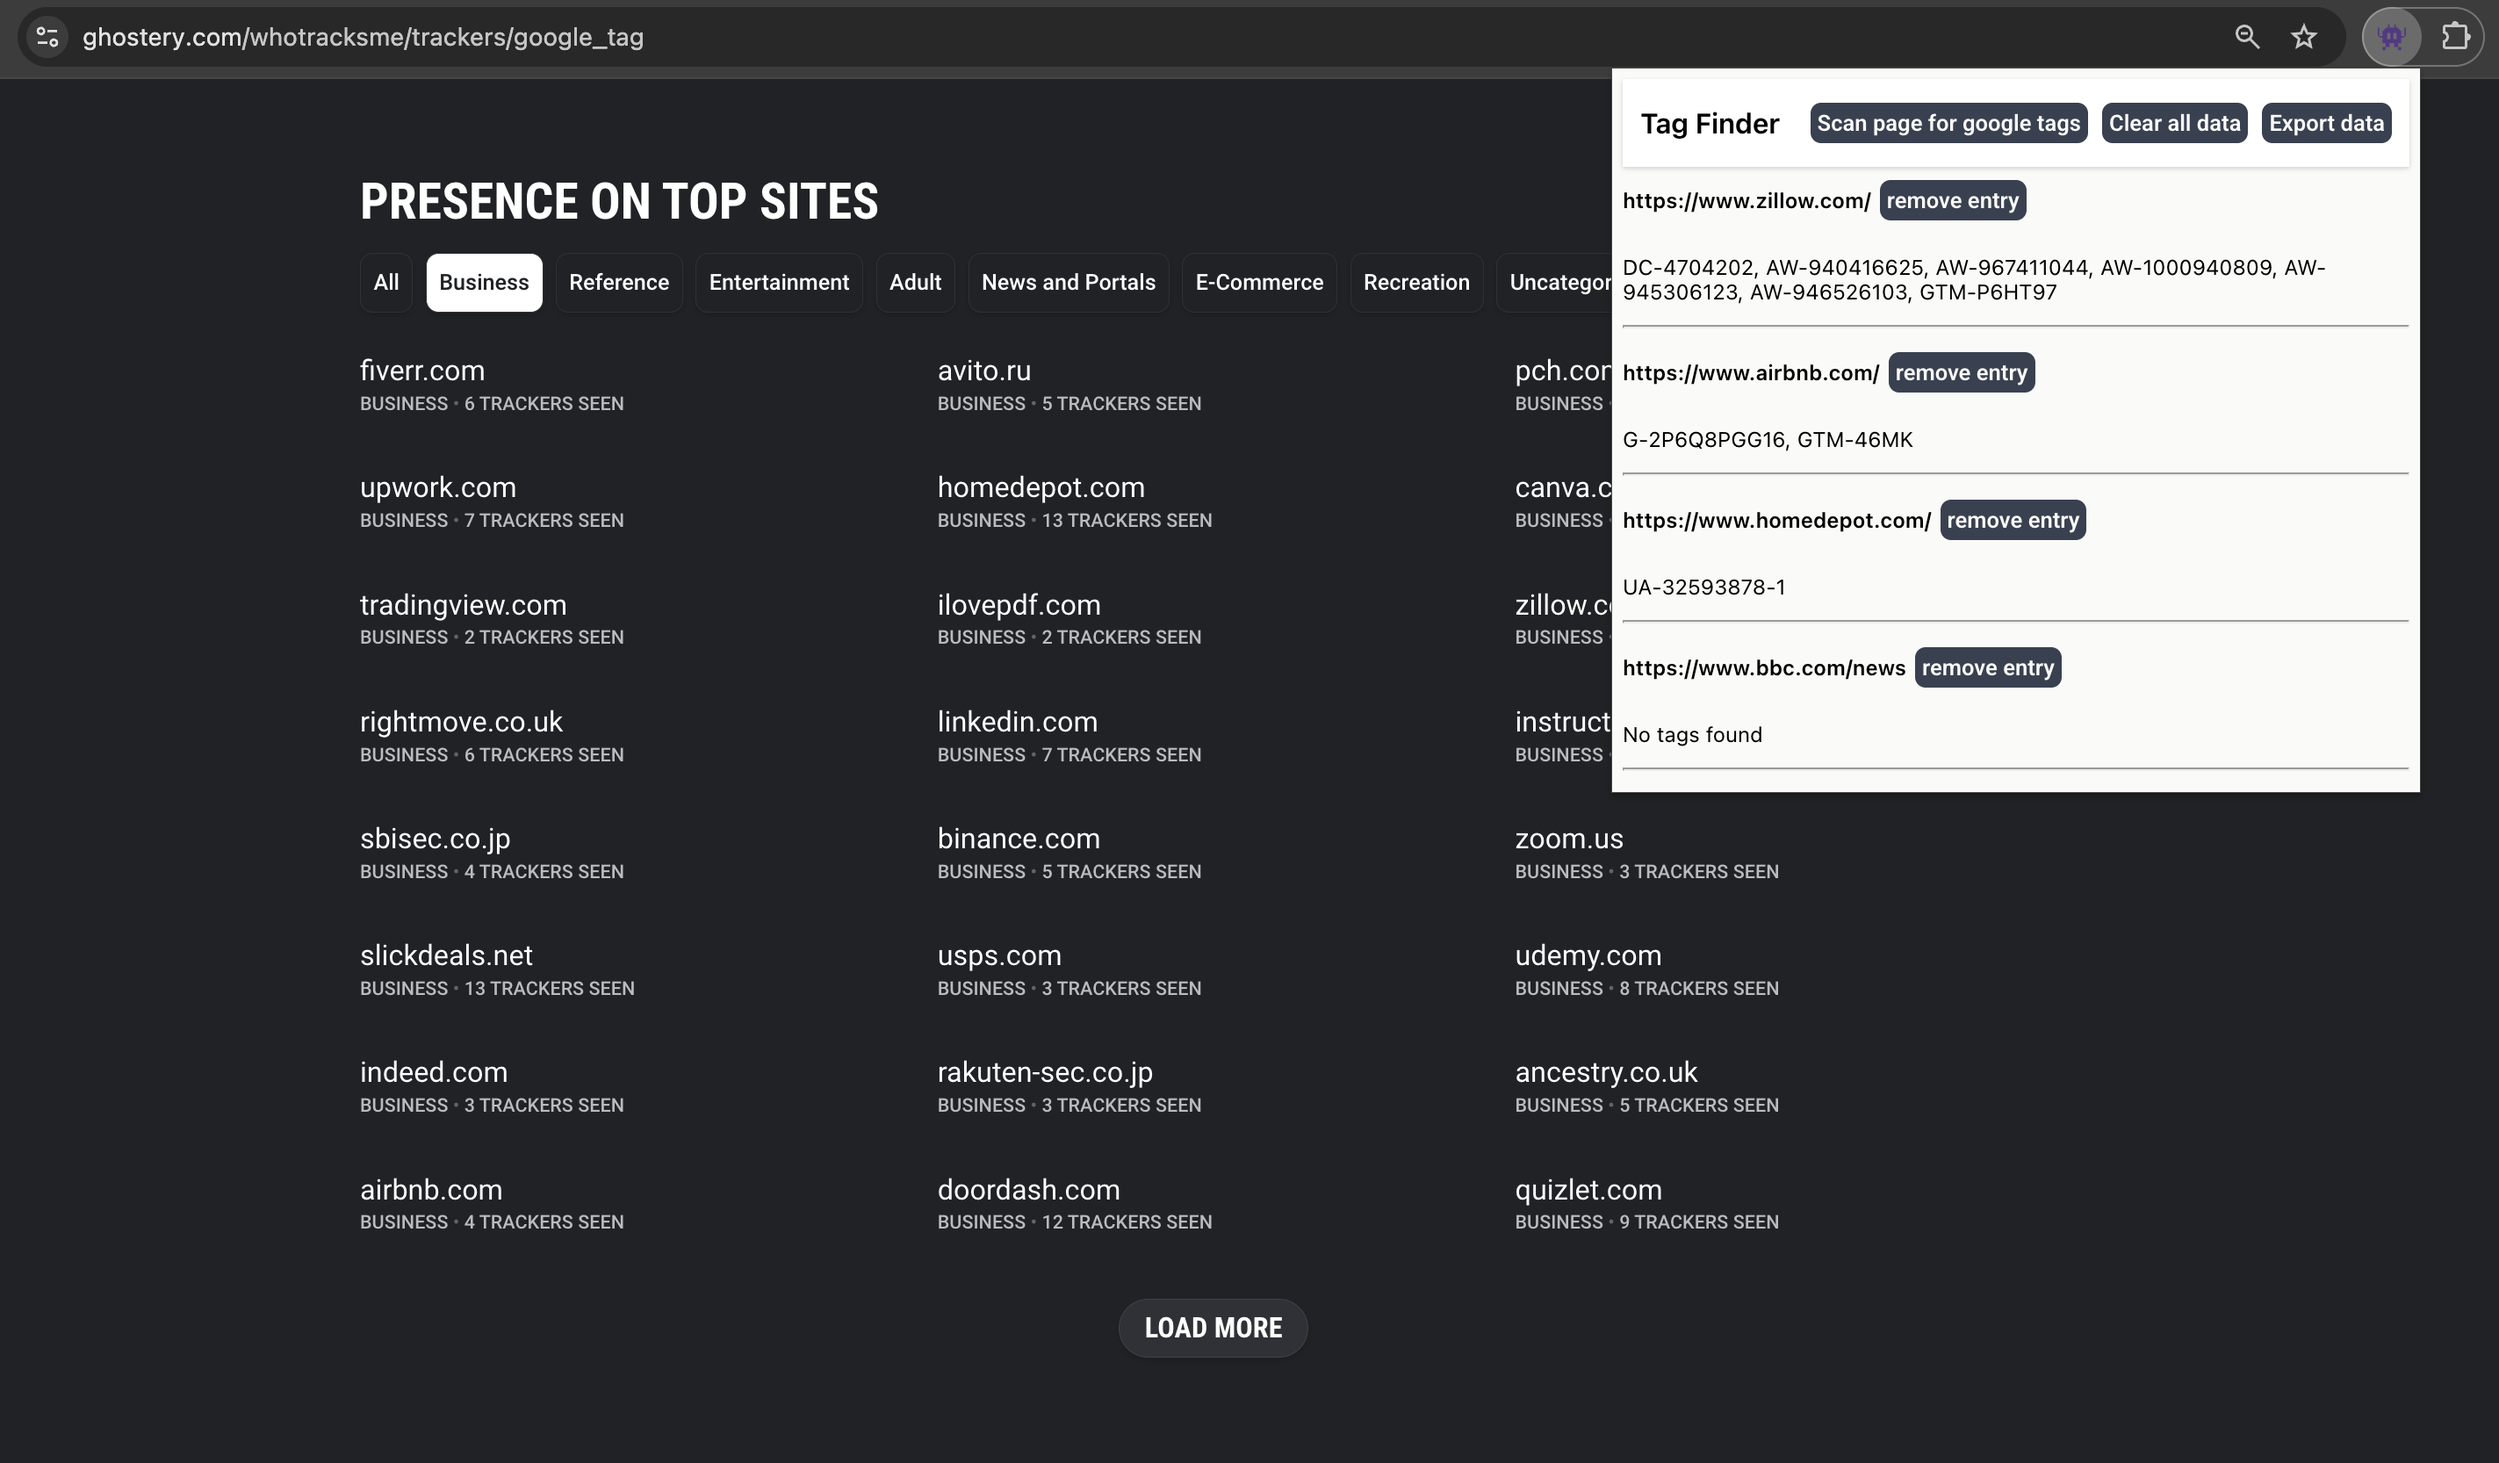
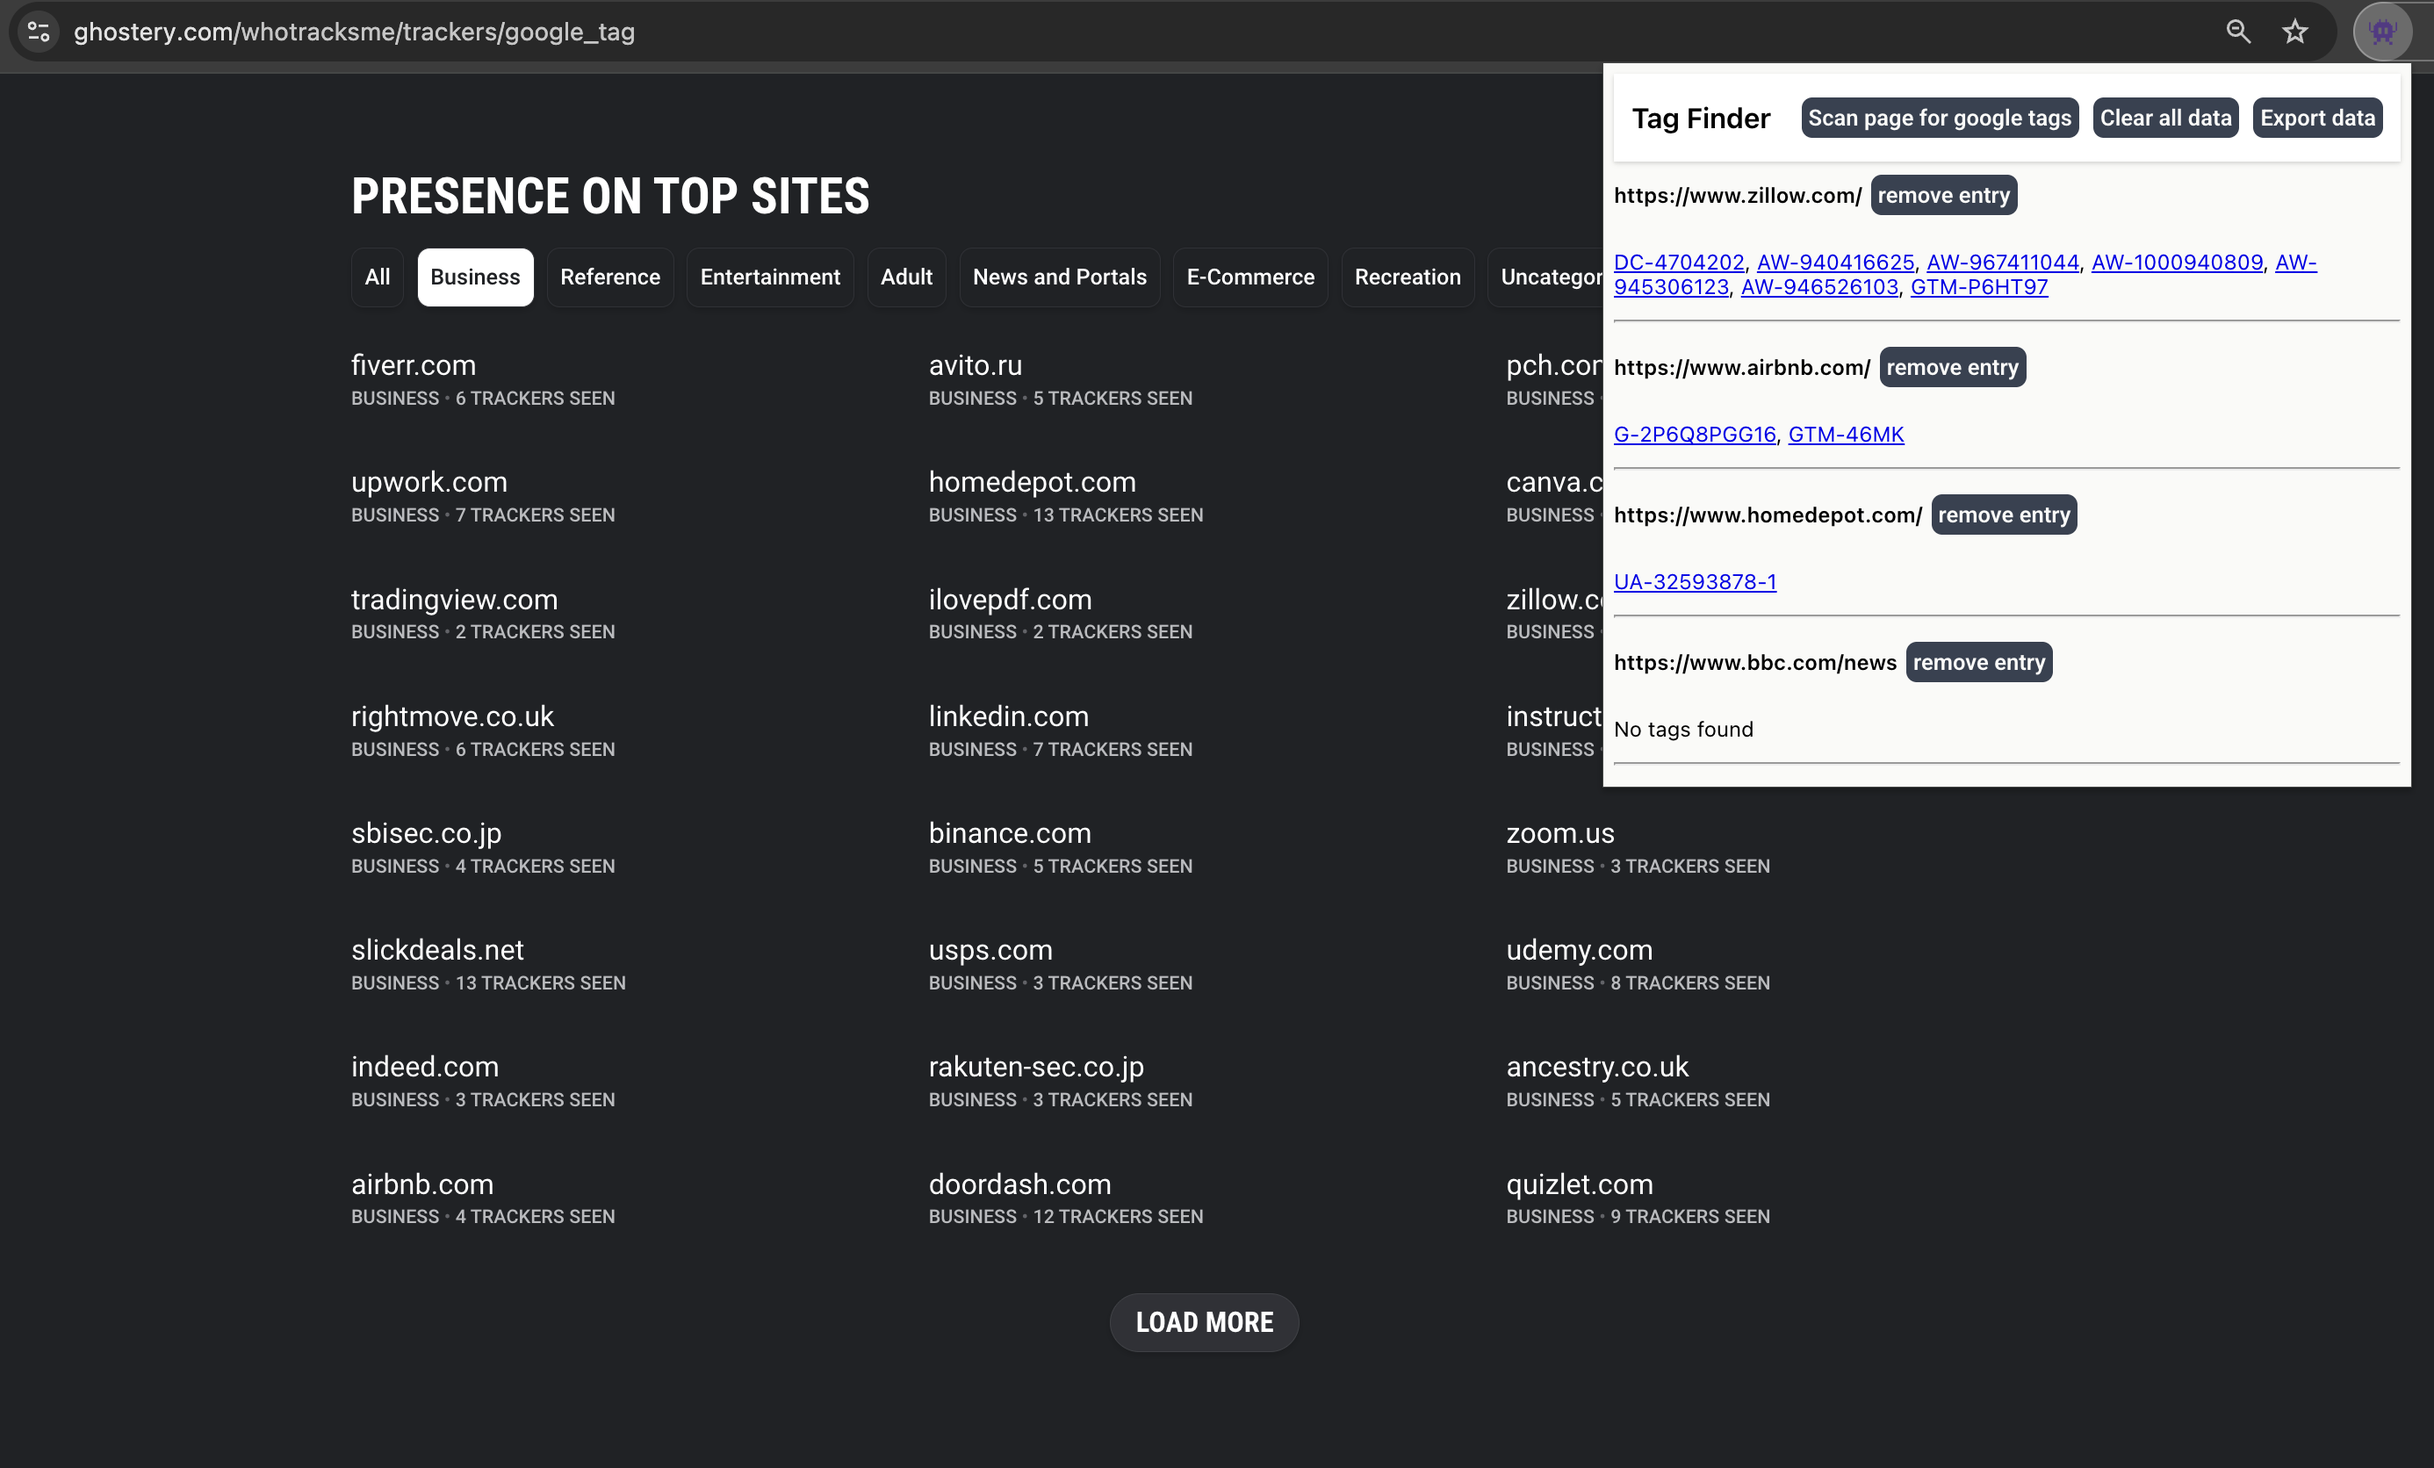
added redirect functionality to links

diff --git a/src/components/TagComponent.jsx b/src/components/TagComponent.jsx
@@ -1,10 +1,14 @@
 export default function TagComponent({ data, onRemoveEntry }) {
+  const baseUrl = "https://search.dnslytics.com/search?d=domains&q=";
+
   // render using ternary operator to check if gtags = [] empty array
   const linksHtml =
     data.gtags.length > 0
       ? data.gtags.map((tagId, index) => (
           <span key={tagId}>
-            <a>{tagId}</a>
+            <a href={baseUrl + tagId} target="_blank" rel="noopener noreferrer">
+              {tagId}
+            </a>
             {/* add commas except for the last element of the array */}
             {index < data.gtags.length - 1 && ", "}
           </span>
